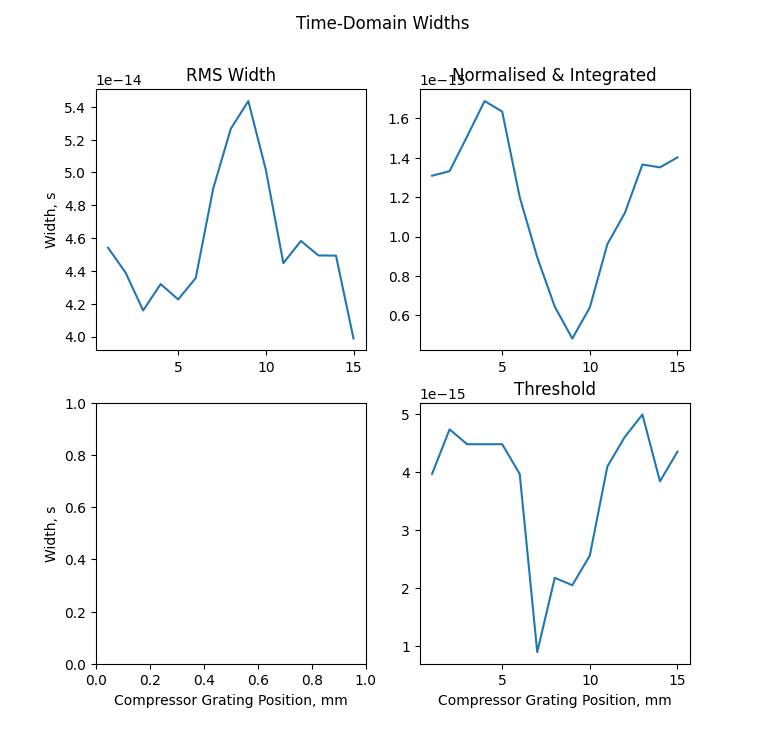
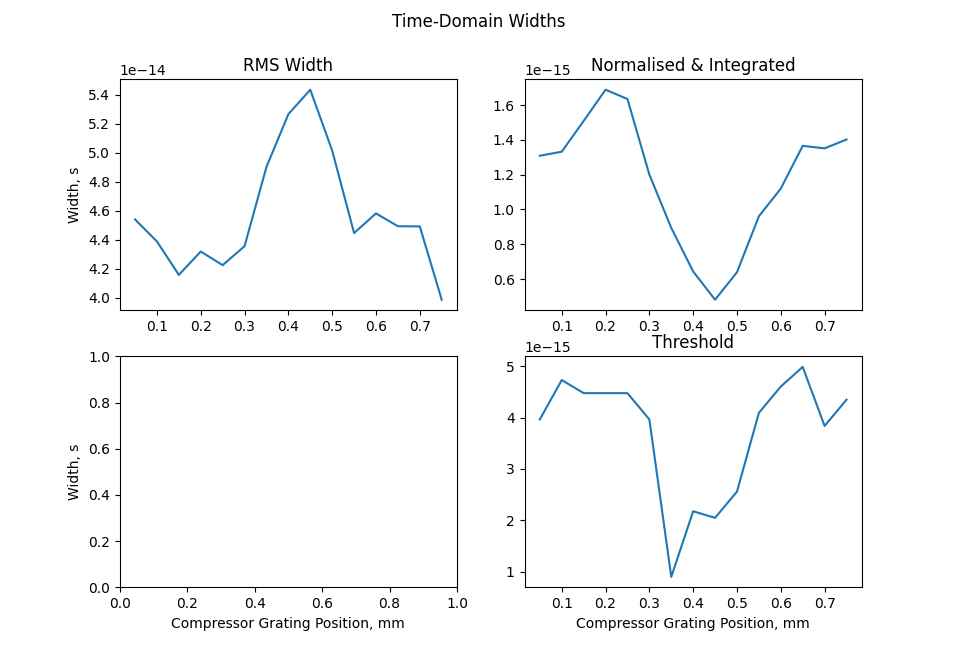
updated plots with correct axes

diff --git a/HCF sim/Python/experiments/measure_GDD_widths.py b/HCF sim/Python/experiments/measure_GDD_widths.py
@@ -116,19 +116,22 @@ for i in range(len(I)):
 #####################################################################################################################
 # Plot results
 positions = [1,2,3,4,5,6,7,8,9,10,11,12,13,14,15]
+GDD_positions = []
+for i in positions:
+    GDD_positions.append(i*0.05)
 
 f, axs = plt.subplots(2,2)
 plt.setp(axs[-1, :], xlabel='Compressor Grating Position, mm')
 plt.setp(axs[:, 0], ylabel='Width, nm')
 plt.suptitle('Wavelength-Domain Widths')
 
-axs[0,0].plot(positions, RMS_widths)
+axs[0,0].plot(GDD_positions, RMS_widths)
 axs[0,0].set_title('RMS Width')
-axs[0,1].plot(positions, norm_and_int_widths)
+axs[0,1].plot(GDD_positions, norm_and_int_widths)
 axs[0,1].set_title('Normalised & Integrated')
-axs[1,0].plot(positions, superGauss_widths)
+axs[1,0].plot(GDD_positions, superGauss_widths)
 axs[1,0].set_title('Super Gaussian Fit')
-axs[1,1].plot(positions, thresh_widths)
+axs[1,1].plot(GDD_positions, thresh_widths)
 axs[1,1].set_title('Threshold')
 
 f2, axs2 = plt.subplots(2,2)
@@ -136,10 +139,10 @@ plt.setp(axs2[-1, :], xlabel='Compressor Grating Position, mm')
 plt.setp(axs2[:, 0], ylabel='Width, s')
 plt.suptitle('Time-Domain Widths')
 
-axs2[0,0].plot(positions, time_RMS_widths)
+axs2[0,0].plot(GDD_positions, time_RMS_widths)
 axs2[0,0].set_title('RMS Width')
-axs2[0,1].plot(positions, time_norm_and_int_widths)
+axs2[0,1].plot(GDD_positions, time_norm_and_int_widths)
 axs2[0,1].set_title('Normalised & Integrated')
-axs2[1,1].plot(positions, time_thresh_widths)
+axs2[1,1].plot(GDD_positions, time_thresh_widths)
 axs2[1,1].set_title('Threshold')
 plt.show()

diff --git a/HCF sim/Python/building_datasets/width_methods.py b/HCF sim/Python/building_datasets/width_methods.py
@@ -24,7 +24,7 @@ def threshold(x,y):
     """
     Find points where signal reaches certain level above noise and find the distance between them
     """
-    thresh=0.07
+    thresh=0.1
     rows = np.where(y > max(y)*thresh)[0]
     if len(rows) <= 1:
         print("Set a lower threshold")
